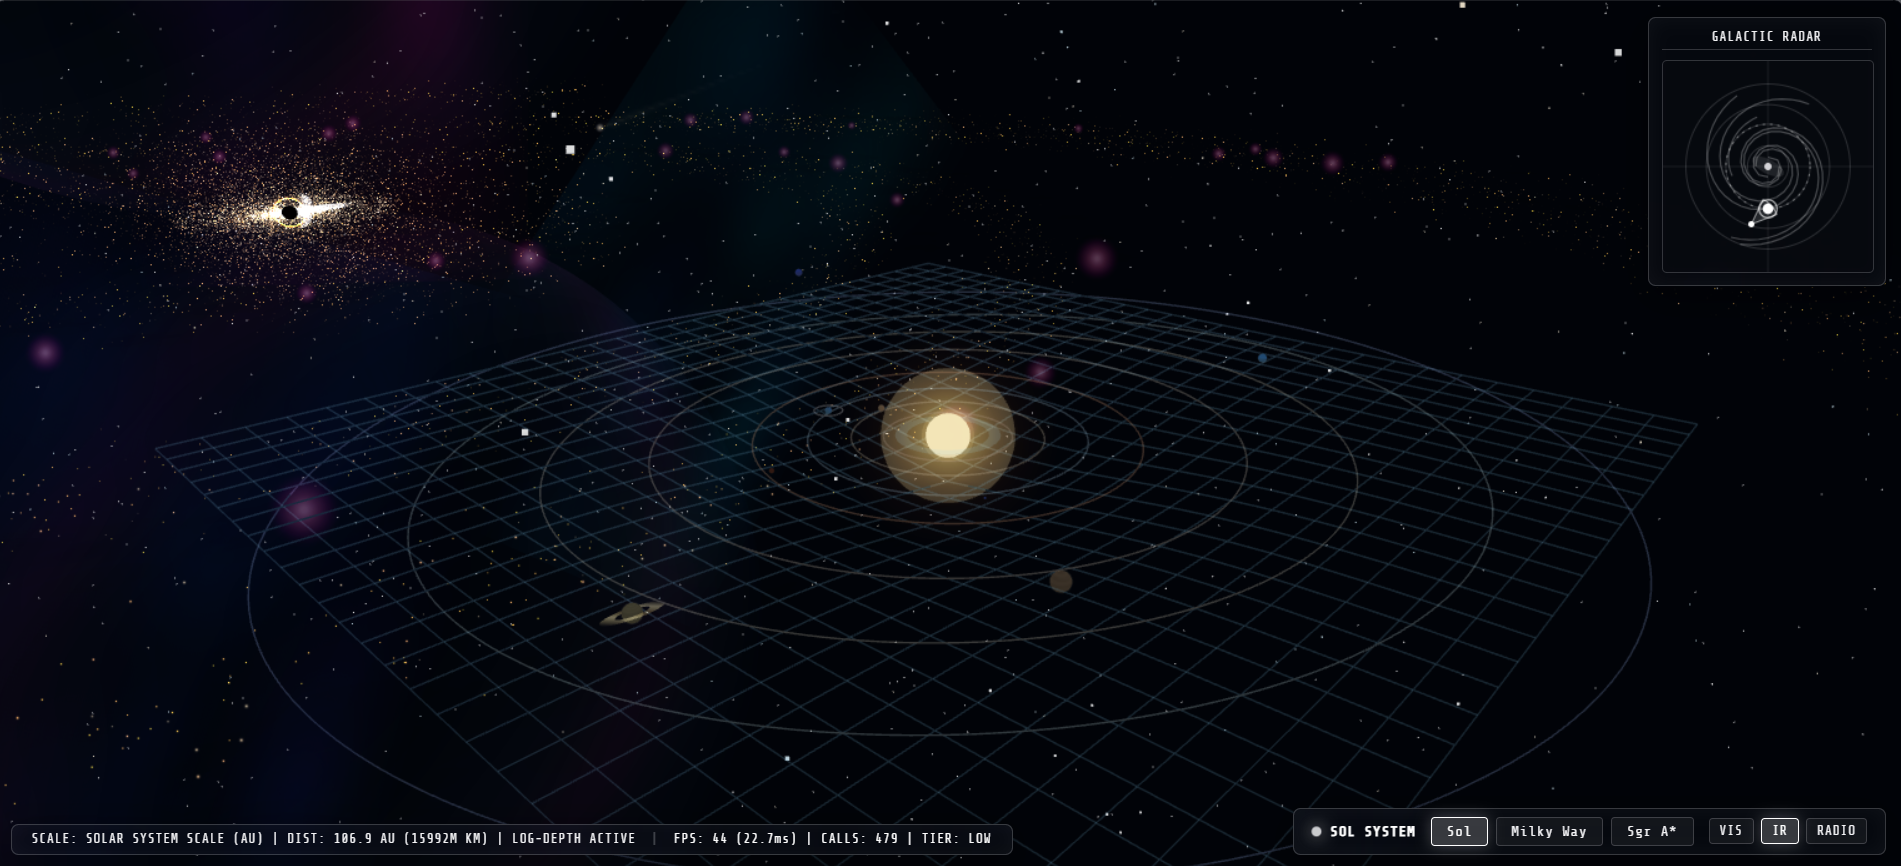
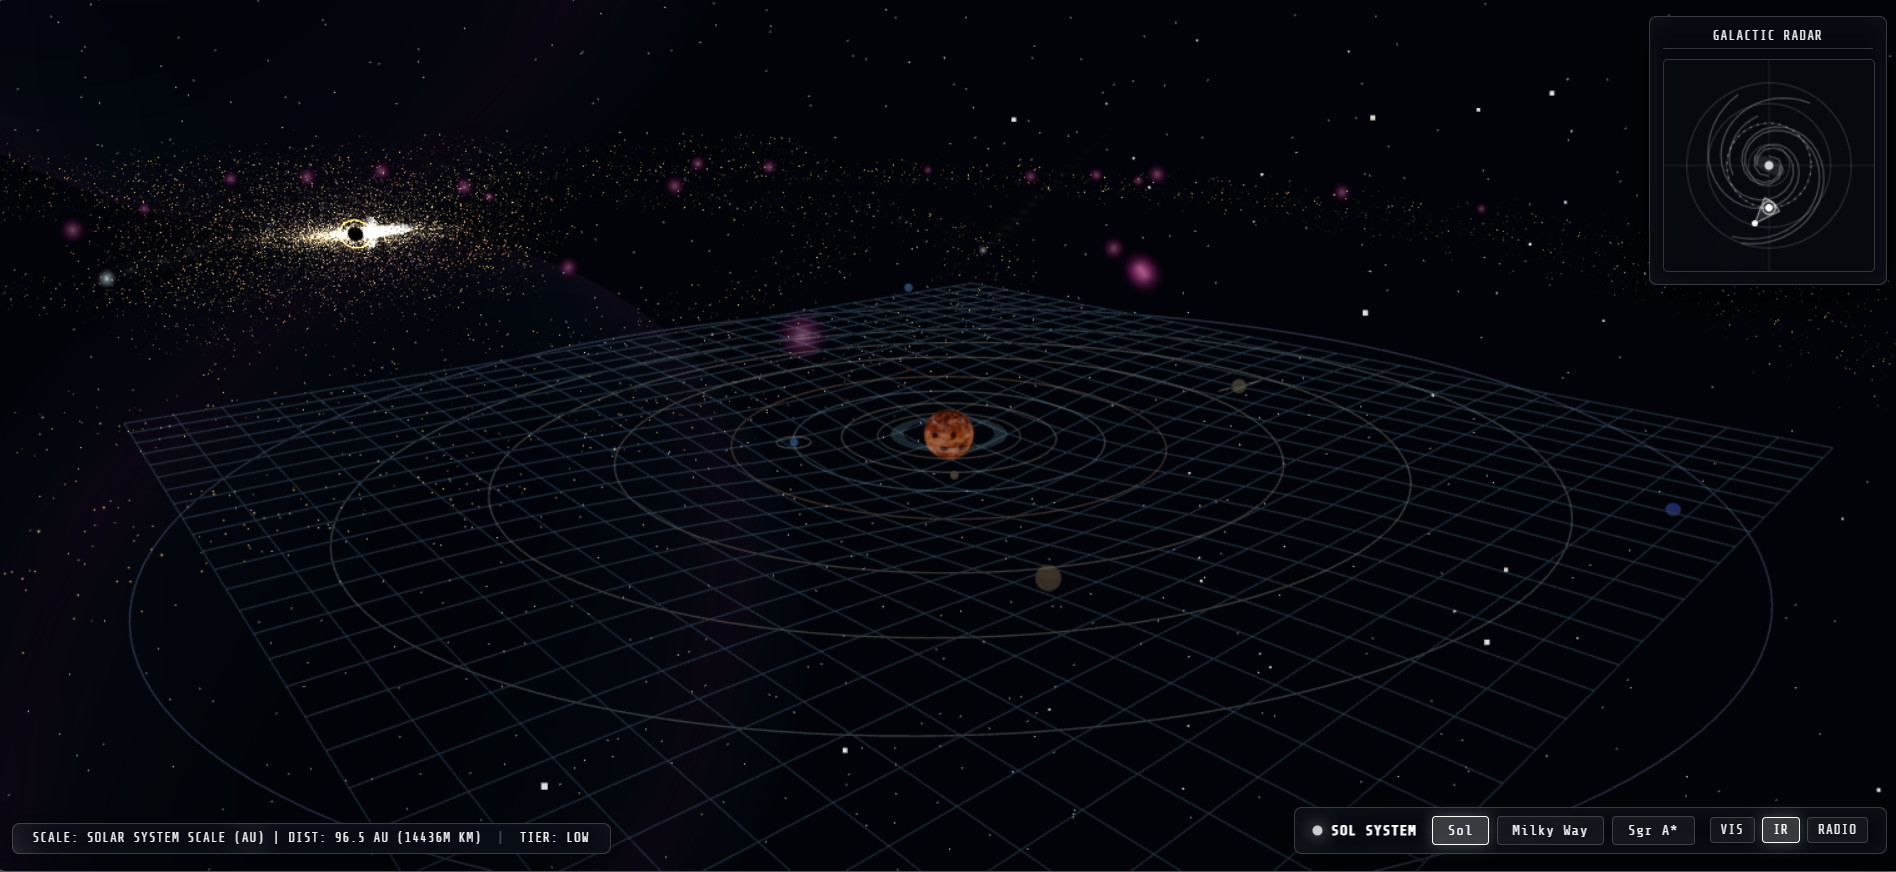
Refactor main.ts by removing Vercel analytics, update sun light color, and enhancing texture logic

diff --git a/src/main.ts b/src/main.ts
@@ -1,8 +1,6 @@
 import * as THREE from "three";
 import { OrbitControls } from "three/examples/jsm/controls/OrbitControls.js";
 import init, { GravitySimulation } from "../rust-physics/pkg/rust_physics.js";
-import { inject } from "@vercel/analytics";
-import { injectSpeedInsights } from "@vercel/speed-insights";
 import {
   createMilkyWayStars,
   createSolarAnchor,
@@ -15,9 +13,6 @@ import { createSagittariusACore } from "./shaders/index.ts";
 import { ScaleController } from "./camera/index.ts";
 import { GalacticRadar, LogarithmicScaleBar, TargetInspector } from "./ui/index.ts";
 import { PerformanceManager } from "./performance/index.ts";
-
-inject();
-injectSpeedInsights();
 
 export interface BodyMetadata {
   name: string;
@@ -36,13 +31,11 @@ export interface BodyVisualEntry {
   glow: THREE.Mesh;
   material: THREE.MeshStandardMaterial;
   atmosphere?: THREE.Mesh | null;
-  haloInner?: THREE.Sprite;
-  haloOuter?: THREE.Sprite;
-  corona?: THREE.Mesh;
   ring?: THREE.Mesh;
 }
 
 export interface TrailEntry {
+  body: BodyVisualEntry;
   line: THREE.Line;
   history: THREE.Vector3[];
   maxPoints: number;
@@ -119,7 +112,7 @@ controls.target.copy(solarGalacticPos);
 
 const ambientLight = new THREE.AmbientLight("#80a4ff", 0.22);
 const hemisphereLight = new THREE.HemisphereLight("#6e90ff", "#050a12", 0.42);
-const sunLight = new THREE.PointLight("#ffd089", 4.1, 2200, 1.35);
+const sunLight = new THREE.PointLight("#fff5e4", 4.1, 2200, 1.35);
 scene.add(ambientLight, hemisphereLight);
 solarSystemGroup.add(sunLight);
 
@@ -133,6 +126,8 @@ let cometEntries: CometEntry[] = [];
 let gravityFieldGroup: THREE.Group | undefined;
 let orbitGuideGroup: THREE.Group | undefined;
 let moonGuide: THREE.LineLoop | undefined;
+let moonOrbitRadius = 3.3;
+let moonOrbitInclination = 0.16;
 let trailFrameCounter = 0;
 let milkyWay: ReturnType<typeof createMilkyWayStars> | null = null;
 let solarAnchor: ReturnType<typeof createSolarAnchor> | null = null;
@@ -330,34 +325,79 @@ function createVenusTexture(): THREE.CanvasTexture {
 
 function createSunTexture(): THREE.CanvasTexture {
   const { canvas, ctx } = createSurfaceCanvas();
-  const radial = ctx.createRadialGradient(canvas.width * 0.5, canvas.height * 0.5, 8, canvas.width * 0.5, canvas.height * 0.5, canvas.width * 0.54);
-  radial.addColorStop(0, "#fff4b3");
-  radial.addColorStop(0.28, "#ffd15e");
-  radial.addColorStop(0.62, "#ff8e2d");
-  radial.addColorStop(0.9, "#cc4b11");
-  radial.addColorStop(1, "#4f1205");
-  ctx.fillStyle = radial;
+
+  const baseGrad = ctx.createLinearGradient(0, 0, 0, canvas.height);
+  baseGrad.addColorStop(0, "#4a2408");
+  baseGrad.addColorStop(0.18, "#7d3f12");
+  baseGrad.addColorStop(0.38, "#c88228");
+  baseGrad.addColorStop(0.5, "#f7bc48");
+  baseGrad.addColorStop(0.62, "#c88228");
+  baseGrad.addColorStop(0.82, "#7d3f12");
+  baseGrad.addColorStop(1, "#4a2408");
+  ctx.fillStyle = baseGrad;
   ctx.fillRect(0, 0, canvas.width, canvas.height);
 
-  for (let i = 0; i < 340; i += 1) {
+  for (let i = 0; i < 480; i += 1) {
     const x = Math.random() * canvas.width;
     const y = Math.random() * canvas.height;
-    const rx = 14 + Math.random() * 56;
-    const ry = 8 + Math.random() * 28;
+    const rx = 10 + Math.random() * 42;
+    const ry = 6 + Math.random() * 24;
+    const roll = Math.random();
+
     ctx.beginPath();
-    ctx.fillStyle = `rgba(255, ${150 + Math.random() * 70}, ${20 + Math.random() * 40}, ${0.04 + Math.random() * 0.14})`;
+    if (roll > 0.65) {
+      ctx.fillStyle = `rgba(255, 248, 224, ${0.2 + Math.random() * 0.2})`;
+    } else if (roll > 0.3) {
+      ctx.fillStyle = `rgba(242, 172, 60, ${0.16 + Math.random() * 0.18})`;
+    } else {
+      ctx.fillStyle = `rgba(95, 42, 10, ${0.22 + Math.random() * 0.22})`;
+    }
     ctx.ellipse(x, y, rx, ry, Math.random() * Math.PI, 0, Math.PI * 2);
     ctx.fill();
   }
 
-  for (let i = 0; i < 80; i += 1) {
+  for (let i = 0; i < 140; i += 1) {
+    const x = Math.random() * canvas.width;
+    const y = (0.2 + Math.random() * 0.6) * canvas.height;
+    const rx = 18 + Math.random() * 65;
+    const ry = 4 + Math.random() * 14;
+    ctx.beginPath();
+    ctx.fillStyle = `rgba(255, 252, 238, ${0.18 + Math.random() * 0.2})`;
+    ctx.ellipse(x, y, rx, ry, (Math.random() - 0.5) * 0.4, 0, Math.PI * 2);
+    ctx.fill();
+  }
+
+  const spotCount = 14;
+  for (let s = 0; s < spotCount; s += 1) {
+    const cx = (s / spotCount) * canvas.width + (Math.random() - 0.5) * 60;
+    const cy = (0.32 + (s % 2 === 0 ? 0.12 : 0.28) + (Math.random() - 0.5) * 0.1) * canvas.height;
+    const size = 12 + Math.random() * 22;
+
+    ctx.beginPath();
+    ctx.fillStyle = "rgba(115, 52, 14, 0.76)";
+    ctx.ellipse(cx, cy, size, size * 0.65, Math.random() * Math.PI, 0, Math.PI * 2);
+    ctx.fill();
+
+    ctx.beginPath();
+    ctx.fillStyle = "rgba(42, 16, 4, 0.94)";
+    ctx.ellipse(cx, cy, size * 0.45, size * 0.32, Math.random() * Math.PI, 0, Math.PI * 2);
+    ctx.fill();
+
+    ctx.beginPath();
+    ctx.strokeStyle = "rgba(255, 240, 190, 0.4)";
+    ctx.lineWidth = 1.6;
+    ctx.ellipse(cx, cy, size * 1.15, size * 0.78, Math.random() * Math.PI, 0, Math.PI * 2);
+    ctx.stroke();
+  }
+
+  for (let i = 0; i < 90; i += 1) {
     const x = Math.random() * canvas.width;
     const y = Math.random() * canvas.height;
-    ctx.strokeStyle = `rgba(255, ${190 + Math.random() * 40}, 100, ${0.08 + Math.random() * 0.08})`;
-    ctx.lineWidth = 2 + Math.random() * 3;
+    ctx.strokeStyle = `rgba(255, ${225 + Math.random() * 25}, ${160 + Math.random() * 50}, ${0.12 + Math.random() * 0.14})`;
+    ctx.lineWidth = 1.5 + Math.random() * 2.5;
     ctx.beginPath();
-    ctx.moveTo(x - 18, y - 8);
-    ctx.bezierCurveTo(x + 12, y - 24, x + 28, y + 12, x + 46, y + 6);
+    ctx.moveTo(x - 22, y - 8);
+    ctx.bezierCurveTo(x + 10, y - 22, x + 30, y + 14, x + 50, y + 4);
     ctx.stroke();
   }
 
@@ -394,16 +434,10 @@ function getPlanetProfile(bodyMeta: BodyMetadata): PlanetProfile {
     case "Sun":
       return {
         map: createSunTexture(),
-        roughness: 0.34,
-        emissiveIntensity: 2.1,
-        glowOpacity: 0.24,
-        atmosphereOpacity: 0,
-        haloTexture: createRadialTexture([
-          { offset: 0, color: "rgba(255, 245, 180, 0.95)" },
-          { offset: 0.24, color: "rgba(255, 196, 92, 0.45)" },
-          { offset: 0.72, color: "rgba(255, 118, 22, 0.12)" },
-          { offset: 1, color: "rgba(255, 118, 22, 0)" }
-        ])
+        roughness: 0.42,
+        emissiveIntensity: 0.32,
+        glowOpacity: 0.06,
+        atmosphereOpacity: 0
       };
     case "Mercury":
       return { map: createRockyTexture("#8e7f73", "#b19a89", "#4a3e38", "#78685f"), roughness: 0.98, emissiveIntensity: 0.02, glowOpacity: 0.02, atmosphereOpacity: 0 };
@@ -527,16 +561,29 @@ function createOrbitPath(radius: number, color: string | THREE.Color, inclinatio
   return new THREE.LineLoop(new THREE.BufferGeometry().setFromPoints(points), new THREE.LineBasicMaterial({ color, transparent: true, opacity: 0.24 }));
 }
 
+function getMoonOffset(radius: number, inclination: number, angle: number): THREE.Vector3 {
+  const x = Math.cos(angle) * radius;
+  const z = Math.sin(angle) * radius;
+  const y = z * Math.sin(inclination) * 0.35;
+  return new THREE.Vector3(x, y, z * Math.cos(inclination * 0.4));
+}
+
 function createBodyVisual(bodyMeta: BodyMetadata, index: number): BodyVisualEntry {
   const root = new THREE.Group();
   root.userData.bodyIndex = index;
 
   const profile = getPlanetProfile(bodyMeta);
+  const isSun = bodyMeta.is_sun || bodyMeta.name === "Sun";
+  const bodyColor = isSun ? "#ffffff" : bodyMeta.color;
+  const emissiveColor = isSun ? "#d48b28" : bodyMeta.glow_color;
+  const glowColor = isSun ? "#b86f1e" : bodyMeta.glow_color;
+
   const material = new THREE.MeshStandardMaterial({
     map: profile.map,
-    color: bodyMeta.color,
-    emissive: hexColor(bodyMeta.glow_color),
+    color: hexColor(bodyColor),
+    emissive: hexColor(emissiveColor),
     emissiveIntensity: profile.emissiveIntensity,
+    emissiveMap: isSun ? profile.map : null,
     roughness: profile.roughness,
     metalness: 0.01
   });
@@ -544,8 +591,8 @@ function createBodyVisual(bodyMeta: BodyMetadata, index: number): BodyVisualEntr
   root.add(mesh);
 
   const glow = new THREE.Mesh(
-    new THREE.SphereGeometry(bodyMeta.radius * (bodyMeta.is_sun ? 3.15 : 1.08), 34, 34),
-    new THREE.MeshBasicMaterial({ color: bodyMeta.glow_color, transparent: true, opacity: profile.glowOpacity, depthWrite: false })
+    new THREE.SphereGeometry(bodyMeta.radius * 1.08, 34, 34),
+    new THREE.MeshBasicMaterial({ color: hexColor(glowColor), transparent: true, opacity: profile.glowOpacity, depthWrite: false })
   );
   root.add(glow);
 
@@ -558,22 +605,7 @@ function createBodyVisual(bodyMeta: BodyMetadata, index: number): BodyVisualEntr
     root.add(atmosphere);
   }
 
-  let haloInner: THREE.Sprite | undefined;
-  let haloOuter: THREE.Sprite | undefined;
-  let corona: THREE.Mesh | undefined;
   let ring: THREE.Mesh | undefined;
-
-  if (bodyMeta.is_sun) {
-    haloInner = new THREE.Sprite(new THREE.SpriteMaterial({ map: profile.haloTexture, color: "#fff0a8", transparent: true, opacity: 0.62, depthWrite: false, blending: THREE.AdditiveBlending }));
-    haloInner.scale.setScalar(bodyMeta.radius * 6.2);
-    haloOuter = new THREE.Sprite(new THREE.SpriteMaterial({ map: profile.haloTexture, color: "#ff993f", transparent: true, opacity: 0.22, depthWrite: false, blending: THREE.AdditiveBlending }));
-    haloOuter.scale.setScalar(bodyMeta.radius * 10.5);
-    corona = new THREE.Mesh(
-      new THREE.SphereGeometry(bodyMeta.radius * 1.22, 40, 40),
-      new THREE.MeshBasicMaterial({ color: "#ffb056", transparent: true, opacity: 0.16, depthWrite: false })
-    );
-    root.add(corona, haloInner, haloOuter);
-  }
 
   if (bodyMeta.name === "Saturn") {
     ring = new THREE.Mesh(
@@ -585,16 +617,16 @@ function createBodyVisual(bodyMeta: BodyMetadata, index: number): BodyVisualEntr
   }
 
   solarSystemGroup.add(root);
-  return { metadata: bodyMeta, root, mesh, glow, material, atmosphere, haloInner, haloOuter, corona, ring };
+  return { metadata: bodyMeta, root, mesh, glow, material, atmosphere, ring };
 }
 
-function createTrail(bodyMeta: BodyMetadata): TrailEntry {
+function createTrail(bodyEntry: BodyVisualEntry): TrailEntry {
   const line = new THREE.Line(
     new THREE.BufferGeometry(),
-    new THREE.LineBasicMaterial({ color: bodyMeta.trail_color, transparent: true, opacity: 0.12 })
+    new THREE.LineBasicMaterial({ color: bodyEntry.metadata.trail_color, transparent: true, opacity: 0.12 })
   );
   solarSystemGroup.add(line);
-  return { line, history: [], maxPoints: QUALITY.trailLength };
+  return { body: bodyEntry, line, history: [], maxPoints: QUALITY.trailLength };
 }
 
 function createCometMaterial(innerColor: string, outerColor: string): THREE.SpriteMaterial {
@@ -662,12 +694,14 @@ function createGravityField(initialFlatPositions: number[]): void {
 
   const earthIndex = metadata.findIndex((bodyMeta) => bodyMeta.name === "Earth");
   const moonIndex = metadata.findIndex((bodyMeta) => bodyMeta.name === "Moon");
-  const earth = new THREE.Vector3(initialFlatPositions[earthIndex * 3], initialFlatPositions[earthIndex * 3 + 1], initialFlatPositions[earthIndex * 3 + 2]).multiplyScalar(DISTANCE_SCALE);
-  const moon = new THREE.Vector3(initialFlatPositions[moonIndex * 3], initialFlatPositions[moonIndex * 3 + 1], initialFlatPositions[moonIndex * 3 + 2]).multiplyScalar(DISTANCE_SCALE);
-  const moonRelative = moon.sub(earth);
-  const moonRadius = Math.sqrt(moonRelative.x * moonRelative.x + moonRelative.z * moonRelative.z);
-  const moonInclination = Math.atan2(moonRelative.y, Math.max(moonRadius, 0.001));
-  moonGuide = createOrbitPath(moonRadius, "#e8edf6", moonInclination, 96);
+  if (earthIndex >= 0 && moonIndex >= 0) {
+    const earth = new THREE.Vector3(initialFlatPositions[earthIndex * 3], initialFlatPositions[earthIndex * 3 + 1], initialFlatPositions[earthIndex * 3 + 2]).multiplyScalar(DISTANCE_SCALE);
+    const moon = new THREE.Vector3(initialFlatPositions[moonIndex * 3], initialFlatPositions[moonIndex * 3 + 1], initialFlatPositions[moonIndex * 3 + 2]).multiplyScalar(DISTANCE_SCALE);
+    const moonRelative = moon.sub(earth);
+    moonOrbitRadius = Math.sqrt(moonRelative.x * moonRelative.x + moonRelative.z * moonRelative.z);
+    moonOrbitInclination = Math.atan2(moonRelative.y, Math.max(moonOrbitRadius, 0.001));
+  }
+  moonGuide = createOrbitPath(moonOrbitRadius, "#e8edf6", moonOrbitInclination, 96);
 }
 
 function buildFocus(): void {
@@ -675,14 +709,25 @@ function buildFocus(): void {
   controls.update();
 }
 
-function updateBodyPositions(flatPositions: ArrayLike<number>): void {
+function updateBodyPositions(flatPositions: ArrayLike<number>, elapsed = 0): void {
+  const earthEntry = bodyEntries.find((entry) => entry.metadata.name === "Earth");
+  const moonEntry = bodyEntries.find((entry) => entry.metadata.name === "Moon");
+
   for (let i = 0; i < bodyEntries.length; i += 1) {
+    if (bodyEntries[i].metadata.name === "Moon") {
+      continue;
+    }
     const offset = i * 3;
     bodyEntries[i].root.position.set(
       flatPositions[offset] * DISTANCE_SCALE,
       flatPositions[offset + 1] * DISTANCE_SCALE,
       flatPositions[offset + 2] * DISTANCE_SCALE
     );
+  }
+
+  if (earthEntry && moonEntry) {
+    const moonAngle = 0.4 + elapsed * 2.2;
+    moonEntry.root.position.copy(earthEntry.root.position).add(getMoonOffset(moonOrbitRadius, moonOrbitInclination, moonAngle));
   }
 
   sunLight.position.copy(bodyEntries[0].root.position);
@@ -694,11 +739,8 @@ function updateBodyPositions(flatPositions: ArrayLike<number>): void {
     gravityFieldGroup.position.copy(bodyEntries[0].root.position);
   }
 
-  if (moonGuide) {
-    const earthEntry = bodyEntries.find((entry) => entry.metadata.name === "Earth");
-    if (earthEntry && moonGuide.parent !== earthEntry.root) {
-      earthEntry.root.add(moonGuide);
-    }
+  if (moonGuide && earthEntry && moonGuide.parent !== earthEntry.root) {
+    earthEntry.root.add(moonGuide);
   }
 }
 
@@ -708,8 +750,8 @@ function updateTrails(): void {
     return;
   }
 
-  trailEntries.forEach((trail, index) => {
-    const point = bodyEntries[index + 1].root.position.clone();
+  trailEntries.forEach((trail) => {
+    const point = trail.body.root.position.clone();
     trail.history.push(point);
     if (trail.history.length > trail.maxPoints) {
       trail.history.shift();
@@ -736,19 +778,8 @@ function updatePlanetLooks(elapsed: number): void {
     entry.mesh.rotation.y += spinMap[entry.metadata.name] ?? 0.0012;
 
     if (entry.metadata.is_sun) {
-      entry.material.emissiveIntensity = 1.95 + Math.sin(elapsed * 2.1) * 0.18;
-      entry.glow.scale.setScalar(1 + 0.06 * Math.sin(elapsed * 1.55));
-      if (entry.corona) {
-        entry.corona.scale.setScalar(1 + 0.03 * Math.sin(elapsed * 1.4));
-      }
-      if (entry.haloInner) {
-        entry.haloInner.material.rotation += 0.0016;
-        entry.haloInner.scale.setScalar(entry.metadata.radius * (6.1 + Math.sin(elapsed * 1.2) * 0.25));
-      }
-      if (entry.haloOuter) {
-        entry.haloOuter.material.rotation -= 0.0009;
-        entry.haloOuter.scale.setScalar(entry.metadata.radius * (10.3 + Math.sin(elapsed * 0.9) * 0.35));
-      }
+      entry.material.emissiveIntensity = 0.32 + Math.sin(elapsed * 2.1) * 0.04;
+      entry.glow.scale.setScalar(1 + 0.02 * Math.sin(elapsed * 1.55));
     }
   });
 }
@@ -944,7 +975,9 @@ async function start(): Promise<void> {
   createNebulaField();
   createStarField();
   bodyEntries = metadata.map((bodyMeta, index) => createBodyVisual(bodyMeta, index));
-  trailEntries = metadata.filter((bodyMeta) => !bodyMeta.is_sun).map((bodyMeta) => createTrail(bodyMeta));
+  trailEntries = bodyEntries
+    .filter((entry) => !entry.metadata.is_sun && entry.metadata.name !== "Moon")
+    .map((entry) => createTrail(entry));
   createGravityField(initialPositions);
   createComets();
   updateBodyPositions(initialPositions);
@@ -958,7 +991,7 @@ async function start(): Promise<void> {
     (scaleState) => {
       const scaleText = document.querySelector("#hud-scale");
       if (scaleText) {
-        scaleText.textContent = `SCALE: ${scaleState.formattedScaleUnit} | DIST: ${scaleState.formattedDistance} | LOG-DEPTH ACTIVE`;
+        scaleText.textContent = `SCALE: ${scaleState.formattedScaleUnit} | DIST: ${scaleState.formattedDistance}`;
       }
     }
   );
@@ -1005,7 +1038,7 @@ async function start(): Promise<void> {
 
     simulation.update(delta, 1);
     if (!isMacro) {
-      updateBodyPositions(simulation.get_positions());
+      updateBodyPositions(simulation.get_positions(), elapsed);
       updateTrails();
       updatePlanetLooks(elapsed);
       updateBackground(elapsed, delta);
@@ -1029,7 +1062,7 @@ async function start(): Promise<void> {
     if (perfFrameCounter++ % 15 === 0) {
       const perfElement = document.querySelector("#hud-perf");
       if (perfElement) {
-        perfElement.textContent = `FPS: ${metrics.fps} (${metrics.frameTimeMs}ms) | CALLS: ${metrics.drawCalls} | TIER: ${metrics.tier}`;
+        perfElement.textContent = `TIER: ${metrics.tier}`;
       }
     }
 
